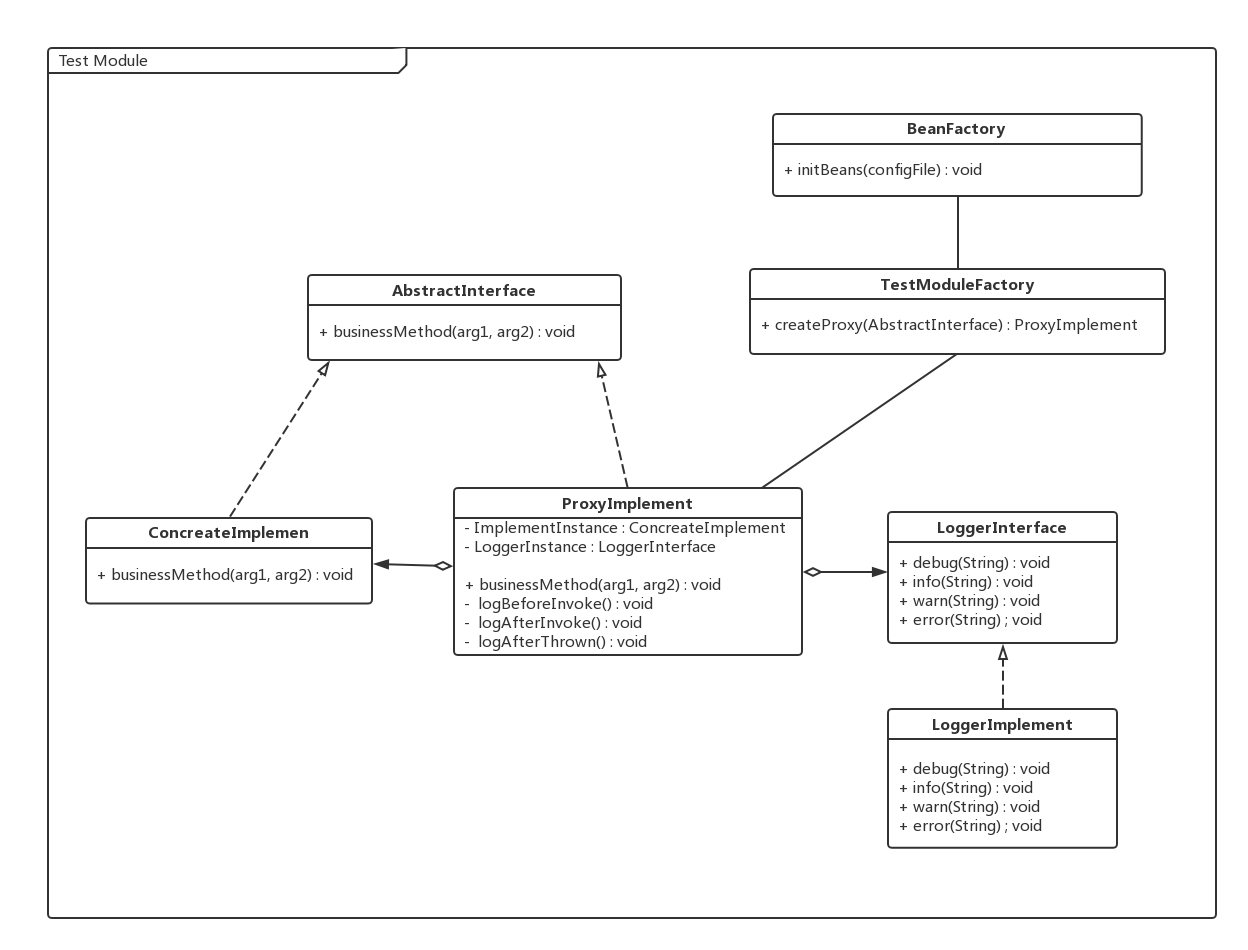
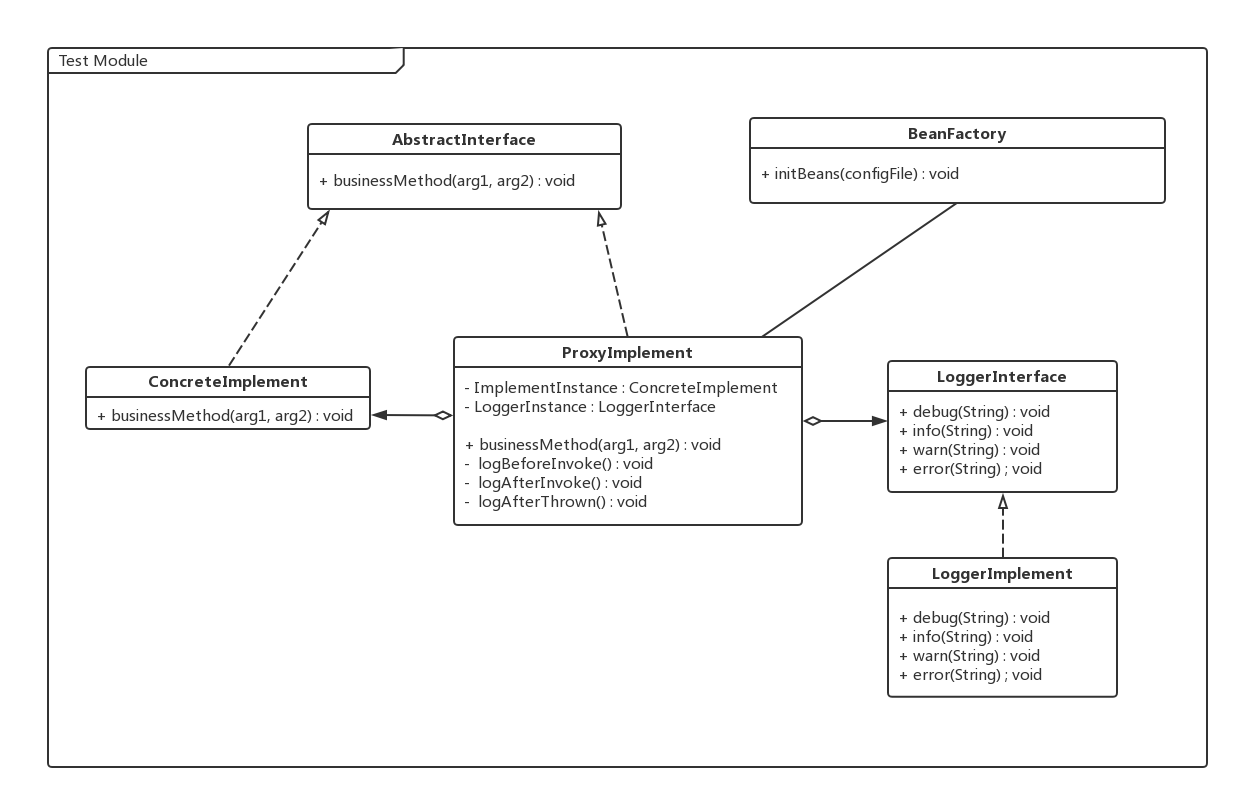
完成测试模块的详细设计

diff --git a/TestModule.md b/TestModule.md
@@ -1,34 +1,37 @@
-# 概述
-## 承担的需求（主要秘密）
+# 测试模块
+## 一、概述
+### 1.1 承担的需求（主要秘密）
 测试模块负责将系统在运行时所有调用路径和每次调用的开始时间、结束时间、输入和输出数据通过日志记录下来，用于系统运行状态的分析和错误调试。测试模式的启用与停用是通过配置文件指定的，且只有在测试模式下关于测试的逻辑代码才会被加载，而在系统通过正常摸试启动时，测试模块的组件应该不会被载入到内存中，以减少内存资源和计算资源你的占用。
 
-### 质量属性要求
+### 1.2 质量属性要求
 测试模块的集成应该保证系统的内聚性不被破坏，即正常的系统逻辑代码中不应该掺杂着测试模块的逻辑代码，保证测试模块和系统功能性模块是松耦合的。而且测试模块本身应该具有可扩展性和可修改性，测试模式下需要记录的内容和记录方式都应该易于修改、添加或删除。
 
-### 用例图
+### 1.3 用例图
 ![测试模块用例图](assets/dbc/测试模块用例图.svg)  
 
-### 用例描述
+### 1.4 用例描述
 1. 代理方法调用主要职责是将原始的方法调用通过代理技术“包裹”起来，使得对系统内部原来直接的方法调用变成间接调用，并由测试模块进行预处理（记录调用路径）、转发和调用后处理（记录返回值）。
 2. 记录调用路径用例的职责是在被调用者被调用前，截获调用请求，记录下调用发生的时间、来源、被调用方法名称等信息。
 3. 转发原始调用的职责是将被代理对象记录后的请求转发给真正的调用接受方，然后将调用结果进行接下来的处理或直接返回调用者。
 4. 记录调用方法的输入和输出用例的职责是在返回调用者前将调用方法的返回结果记录下来，然后再返回。
 5. 根据配置选择启动模式用例的职责是在系统启动时读取配置文件，根据其中关于测试模式的配置内容决定是否加载测试模块组件进入主存运行。
 
-### 可能会修改的实现（次要秘密）
+### 1.5 可能会修改的实现（次要秘密）
 1. 日志记录格式和内容
 2. 配置文件格式和内容
 
-### 角色
+### 1.6 角色
 1. 条件创建实例：  
 根据配置内容，动态决定是否为系统内部的对象生成代理对象，如果配置文件决定系统进入正常模式而不是测试模式，注意此时不是让代理对象关闭日志记录，而是直接**不生成代理对象**。
 2. 代理转发请求：  
 测试模块拦截方法调用请求，在请求的生命周期中添加上额外的处理逻辑（记录日志），在不修改核心业务逻辑模块代码的基础上增加了新的功能。
 
-### 对外接口
+### 1.7 对外接口
 测试模块不提供对外接口。
 
-### 类图
+## 二、类的设计
+
+### 2.1 类图
 根据被代理类是实现了其他的抽象接口还是没有实现接口，测试模块采取两种不同的处理办法，分别如下：  
 - 被代理对象实现了抽象接口：  
 ![实现接口的类图](assets/dbc/测试模块类图1.png)
@@ -36,11 +39,11 @@
 - 被代理类没有实现抽象接口：  
 ![没有实现接口的类图](assets/dbc/测试模块类图2.png)
 
-### 类描述
-上图中两种情况下的实现逻辑大部分还是相同的，区别在于对于没有接口继承时，代理类直接将继承自目标类（需要被代理的类），再在自身内部递归的包含目标类。
+### 2.2 类描述
+上图中两种情况下的实现逻辑大部分还是相同的，区别在于对于没有接口继承时，代理类直接将继承自目标类（需要被代理的类），再在自身内部递归的包含目标类。无论采取哪一种方式，它们最终达成的效果都是相同的。
 
-#### 1. AbstractInterface接口
-该接口泛指系统中一般的那些需要被记录调用日志的业务逻辑，这里仅表示其存在，业务逻辑具体有哪些取决于系统的具体实现。
+#### 2.2.1. AbstractInterface接口
+该接口泛指系统中一般的那些需要被记录调用日志的业务逻辑接口，这里仅表示其存在，业务逻辑具体有哪些取决于系统的具体实现。
 
 **类方法：**
 
@@ -50,9 +53,9 @@
 
 **数据结构：**
 
-取决于具体业务方法的实现。
+取决于具体业务类的实现。
 
-#### 2. ConcreateImplement类
+#### 2.2.2. ConcreteImplement类
 AbstractInterface的实现类，这里仅表示其存在，业务逻辑具体有哪些取决于系统的具体实现。
 
 **类方法**
@@ -63,8 +66,8 @@ AbstractInterface的实现类，这里仅表示其存在，业务逻辑具体有
 
 取决于具体业务方法的实现。
 
-#### 3. ProxyImplement类
-核心代理对象，负责代理所有对目标对象的方法调用，并对调用过程添加日志记录逻辑的实现类。
+#### 2.2.3. ProxyImplement类
+泛指所有代理对象，负责代理所有对目标对象的方法调用，并对调用过程添加日志记录逻辑。该类和被代理的目标类要么实现同一个接口要么继承自目标类，因此系统中其他部分对它们的调用是透明的。在系统运行时，如果进入代理模式，系统中其他部分在调用目标类的方法时，其实调用的是代理类的方法，而代理类会将调用转发给目标类，因此调用者并不知道，也不会收到影响。
 
 **类方法**
 
@@ -73,17 +76,17 @@ AbstractInterface的实现类，这里仅表示其存在，业务逻辑具体有
 | public void businessMethod(arg1, arg2) | 代理对目标对象同名方法调用的方法<br>前置条件：代理类已配置完成<br>后置条件：记录调用日志、转发调用给目标对象、记录调用结果 |
 | public void logBeforeInvoke() | 记录调用发生的时间、调用方法名称<br>前置条件：代理类已拦截对目标对象的方法调用<br>后置条件：记录调用日志，转发调用至真实方法 |
 | public void logAfterInvoke() | 记录方法调用参数和返回结果<br>前置条件：对真实方法的调用已经返回<br>后置条件：记录返回结果和参数 |
-| public void logAfterThrown() | 记录异常发生时的异常具体信息，用于时候针诊断<br>前置条件：代理类配置已完成<br>后置条件：记录异常发生时的错误栈，再抛出异常 |
+| public void logAfterThrown() | 记录异常发生时的异常具体信息，用于时候针诊断<br>前置条件：代理类配置已完成<br>后置条件：记录异常发生时的错误栈 |
 
 **数据结构**
 
 | 数据结构 | 描述 |
 | :------------- | :------------- |
-| ConcreateImplement realInstance | 代理类所代理的实际的目标对象，真实业务逻辑的实现需要转发至此类 |
+| ConcreteImplement realInstance | 代理类所代理的实际的目标对象，真实业务逻辑的实现需要转发至此类 |
 | LoggerInterface logerInstance | 负责日志记录具体操作的接口，其记录时的具体格式可配置 |
 
-#### 4. LoggerInterface接口
-日志记录操作的抽象接口，定义了常用的日志记录操作，其具体实现取决于子类的配置。
+#### 2.2.4. LoggerInterface接口
+日志记录操作的抽象接口，定义了常用的日志记录操作，其具体实现取决于实现类的配置。其主要方法为四个级别的日志记录方式，重要级别debug < info < warn < error，记录日志时可以选择适合的级别进行记录。
 
 **类方法**
 
@@ -98,8 +101,8 @@ AbstractInterface的实现类，这里仅表示其存在，业务逻辑具体有
 
 无重要数据结构。
 
-#### 5. LoggerImplement类
-日志记录操作的实现类，其可根据配置自定义日志记录格式等具体记录细节。
+#### 2.2.5. LoggerImplement类
+日志记录操作的实现类，其可根据配置文件的内容自定义日志记录格式等具体记录细节。该类是单例，即只有一个对象实例，这样可以保证记录日志时不会因为多个类对同一份日志文件的并行写入而产生错误。
 
 **类方法**
 
@@ -109,35 +112,49 @@ AbstractInterface的实现类，这里仅表示其存在，业务逻辑具体有
 
 同上文中`LoggerInterface`接口。
 
-#### 6. TestModuleFactory类
-创建代理对象的工厂类，负责产生所有代理对象并进行初始化装配，它是系统能进入测试模式的基础。其本身的实例化需要由`BeanFactory`根据配置文件的内容来确定。
+#### 2.2.6. BeanFactory类
+测试模块创建代理类实例的工厂，根据需要为不同的目标类动态产生其代理类并实例化。
 
 **类方法**
 
 | 类方法 | 描述 |
 | :------------- | :------------- |
-| public ProxyImplement createProxy(ConcreateImplement) | 根据不同类型的目标对象自动创建不同的代理对象<br>前置条件：无<br>后置条件：将对原目标对象的调用引用替换为对新的代理对象的调用引用 |
+| public void initBeans(configFile) | 根据配置内容按需创建系统所需要的代理类 |
 
 **数据结构**
 
 无重要数据结构。
 
-#### 7. BeanFactory类
-全局创建bean的工厂，负责根据配置要求实例化系统各部分组件。
+## 三、重要协作
+### 3.1 顺序图
 
-**类方法**
+![测试模块顺序图](assets/dbc/测试模块顺序图.png)
 
-| 类方法 | 描述 |
-| :------------- | :------------- |
-| public void initBeans(configFile) | 根据配置内容按需创建系统所需要的bean |
+## 四、设计模式应用
+### 4.1 单例模式
+测试模块的日志记录组件需要从磁盘配置文件中载入日志记录格式，系统在记录日志时需要保证日志格式的统一性，而且多个日志记录类的实例容易导致记录时发生冲突，因此日志记录组件必须只有一个实例。并且使用单例模式只需要载入一次配置内容，减少磁盘配置文件读取次数，减少冗余的IO操作进而减少性能损耗。
 
-**数据结构**
+### 4.2 代理模式
+系统需要在进入测试模式时能够在不破坏原有业务逻辑的基础上增加新的日志记录功能，而代理模式正好可以达到这个要求。代理模式通过为每个业务逻辑类添加新的代理，从而让client实际上拿到的引用并不是真正的目标对象，而只是一个假的proxy。这样client在调用业务方法时，系统就可以插入日志记录的增强过程，通过调用的转发让client的调用请求也得以正常的执行。
 
-无重要数据结构。
+代理模式在类图中的体现如下：  
+![代理模式的类图体现](assets/dbc/代理模式的体现.png)  
+上图中代理类ProxyImplement通过和原来的被代理类ConcreteImplement实现同一个Interface，其内部持有真正的目标类ConcreteImplement的引用，并会在client调用时进行转发，于是client可以透明的调用自己持有的代理类的方法也能正常完成任务。
 
-### 重要协作
-#### 1. 顺序图
+通过使用代理模式，保证了业务部分的内聚性，也增强了系统的可扩展性，使得有限的修改和功能增强不会影响系统其他部分。
 
+### 4.3 策略模式
+策略模式能够将系统在局部上一些实现细节的不确定性封装起来，易于在将来甚至是运行时的修改。在本实验中，日志记录类的日志记录格式是不确定的，可能需要记录每次调用发生的时间，可能需要记录调用参数，也可能不需要。而且记录格式的需求将来也可能会随着时间的推移而发生变化，因此此处最佳的方法就是使用策略模式将记录格式封装起来。
 
-### 使用到的设计模式
-> 工厂模式（动态创建bean+spring aop生成代理）,proxy模式，
+在爱比价系统中，我们将日志记录的格式封装到了日志组件的配置文件中，系统在启动时会从配置文件读取日志记录格式信息。配置文件通过使用特定类似正则表达式的表示方法，可以在不修改系统代码的情况下记录不同格式的日志，满足客户的不同需求。
+
+策略模式在类图中的体现如下图：  
+![策略模式体现](assets/dbc/策略模式的体现.png)  
+
+### 4.4 工厂模式
+工厂模式一般用来统一管理对象的创建过程，减少系统不同部分之间在创建对象时的复杂度和耦合度。在测试模块中，有大量的代理类对象需要被创建，而且系统不可能为每个业务类都创建一个代理类，哪些类需要创建代理是通过**类全名**的正则表达式来指定的，对象创建工厂根据匹配的类名来为需要的类创建代理类，并初始化其引用关系。
+
+工厂模式在类图中的体现如下：  
+![工厂模式体现](assets/dbc/工厂模式的体现.png)
+
+通过工厂模式的使用，将复杂的对象创建过程从业务逻辑中抽出来，分解了复杂度，提高了程序的内聚性，让业务模块只负责自身的核心逻辑。同样，独立出来的对象创建部分也更加容易管理。
